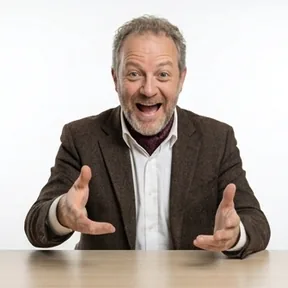
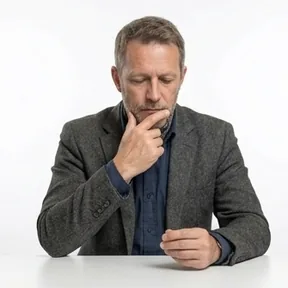
Hide card pictures while face down; new defaults; Boris and Gleb swap portraits
A picture card's art is now hidden outright while the card lies face
down, instead of relying on the browser to hide the back side: in
one browser the blended picture was drawn through the card back.

The defaults for a first visit change (Lev as the opponent, lead at
the fool, deep thinking, large portraits, beaten cards cleared
automatically, playable cards highlighted; hints and the arrow off).
Boris and Gleb exchange portraits and keep their names and strength.
The bootstrap nginx file follows the cards to /durak/cards/.

diff --git a/src/style.css b/src/style.css
@@ -327,9 +327,18 @@ a.ghost {
   mix-blend-mode: multiply;
   display: none;
   pointer-events: none;
+  /* While a card lies face down its picture is hidden outright, and it changes at the middle
+     of the turn. Leaving it to the face's hidden back side is not enough: because of the
+     blend mode, Firefox draws the picture straight through the back of the card. */
+  visibility: hidden;
+  backface-visibility: hidden;
+  transition: visibility 0s linear 0.11s;
 }
 .card.pictured .art {
   display: block;
+}
+.card.up .art {
+  visibility: visible;
 }
 .card.pictured .idx,
 .card.pictured .centre,
@@ -1173,6 +1182,9 @@ dialog .buttons [data-act='reset'] {
   .card,
   .card-inner {
     transition-duration: 0.01s;
+  }
+  .art {
+    transition-delay: 0s;
   }
   .card.hinted .card-face,
   .dots i {

diff --git a/src/ui/characters.ts b/src/ui/characters.ts
@@ -32,7 +32,7 @@ export const CHARACTERS: Character[] = [
     rating: 5,
     female: false,
     pitch: 0.7,
-    moods: { neutral: 0, thinking: 3, pleased: 4, happy: 5, surprised: 1, sad: 6, angry: 0, worried: 7 },
+    moods: { neutral: 8, thinking: 4, pleased: 7, happy: 3, surprised: 2, sad: 5, angry: 6, worried: 6 },
   },
   {
     id: 'vera',
@@ -59,7 +59,7 @@ export const CHARACTERS: Character[] = [
     rating: 3,
     female: false,
     pitch: 0.95,
-    moods: { neutral: 8, thinking: 4, pleased: 7, happy: 3, surprised: 2, sad: 5, angry: 6, worried: 6 },
+    moods: { neutral: 0, thinking: 3, pleased: 4, happy: 5, surprised: 1, sad: 6, angry: 0, worried: 7 },
   },
   {
     id: 'tamara',

diff --git a/src/ui/app.ts b/src/ui/app.ts
@@ -73,22 +73,22 @@ interface Tally {
 const NO_TALLY: Tally = { games: 0, wins: 0, losses: 0, draws: 0, outs: 0 };
 
 const DEFAULTS: Settings = {
-  opponents: ['boris'],
+  opponents: ['lev'],
   ratings: {},
   transfer: false,
   firstBoutFive: true,
-  nextLead: 'winner',
-  thinkMs: 1500,
+  nextLead: 'fool',
+  thinkMs: 4000,
   avatars: 'context',
-  largePortraits: false,
+  largePortraits: true,
   phrases: true,
   speech: false,
   showKnown: false,
-  autoDiscard: false,
-  hints: true,
-  showArrow: true,
+  autoDiscard: true,
+  hints: false,
+  showArrow: false,
   trumpCount: false,
-  showPlayable: false,
+  showPlayable: true,
   showTrumps: false,
   lang: browserLang(),
 };

diff --git a/README.md b/README.md
@@ -120,17 +120,20 @@ voices never overlap or queue: while one remark is being spoken, another goes un
 
 All in Settings. The display options take effect at once.
 
-- Portraits: off, still, or reacting to the game (on by default); optionally large.
+- Opponent on a first visit: Lev, at his usual four stars.
+- Portraits: off, still, or reacting to the game (the default), and large (on by default).
 - Opponents make remarks (on by default); speak the remarks aloud (off by default).
-- Arrow from whoever leads to whoever defends (on by default).
+- The next game is led by the winner, or at the fool (the default).
+- Thinking time: quick, normal or deep (the default).
 
 The rest are off unless noted:
 
 - Show opponents' cards you have already seen (a memory aid).
-- Clear beaten cards automatically. Otherwise a beaten bout waits for the Clear button.
-- Offer hints (on).
-- Highlight the cards you can play. Without it the hand looks plain and an illegal card is
-  refused with a small shake.
+- Clear beaten cards automatically (on). Without it a beaten bout waits for the Clear button.
+- Offer hints.
+- Highlight the cards you can play (on). Without it the hand looks plain and an illegal card
+  is refused with a small shake.
+- Arrow from whoever leads to whoever defends.
 - Mark trump cards with a brass band.
 
 ## Deploying
